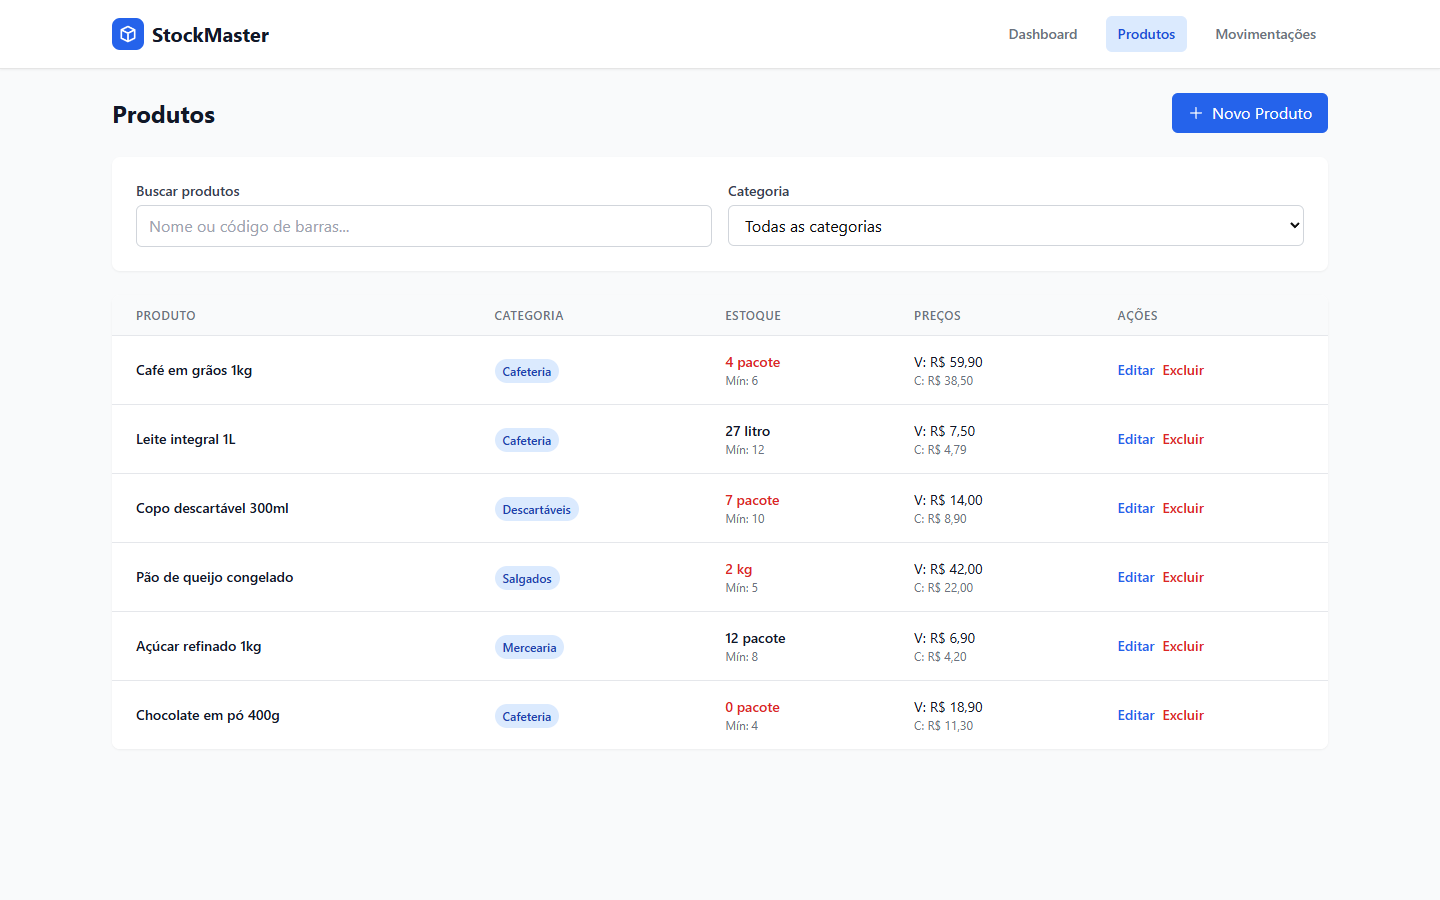
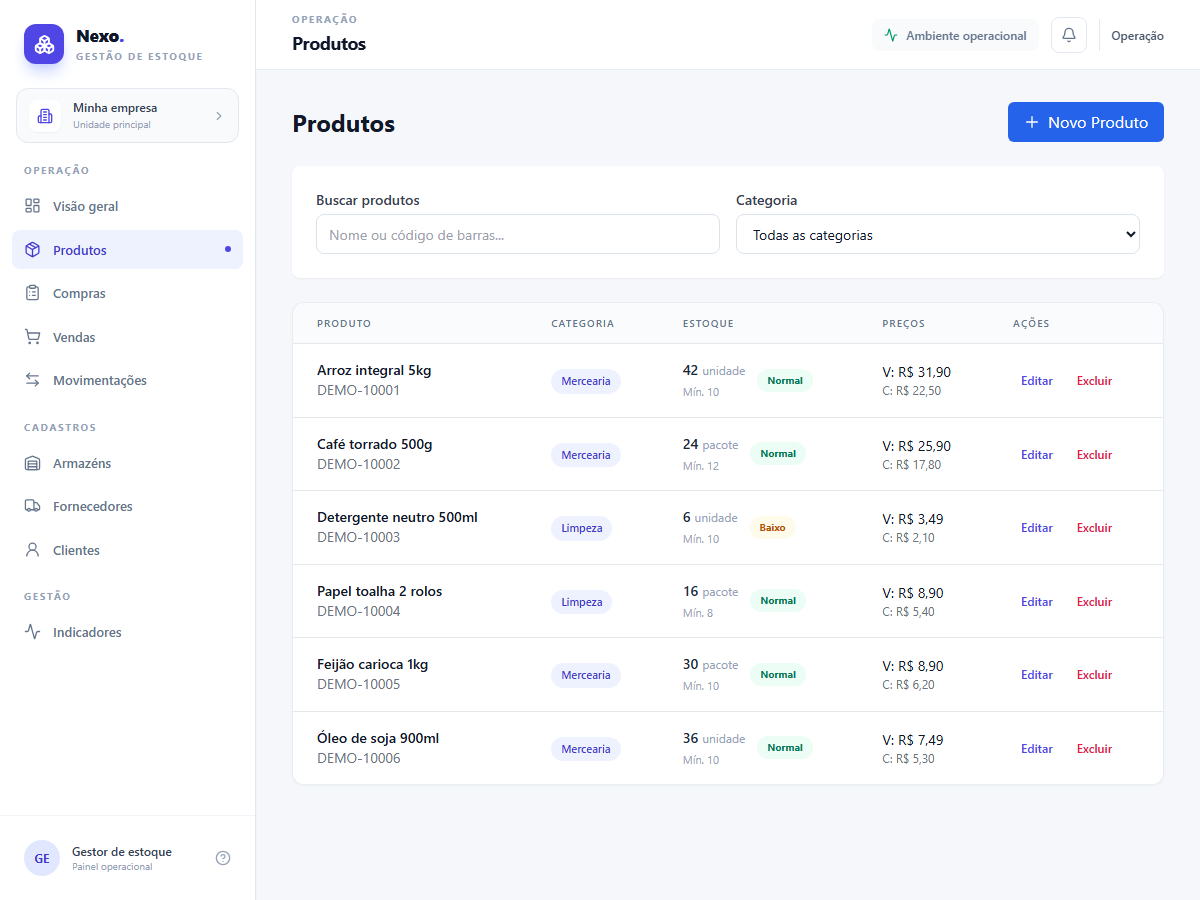
docs: refresh README for Nexo ERP

diff --git a/frontend/src/App.js b/frontend/src/App.js
@@ -9,6 +9,11 @@ if (DEMO) ativarDemo(axios);
 
 const BACKEND_URL = process.env.REACT_APP_BACKEND_URL;
 const API = `${BACKEND_URL}/api`;
+const PAGINAS = ['dashboard', 'produtos', 'compras', 'vendas', 'movimentacoes', 'armazens', 'fornecedores', 'clientes', 'erp'];
+const paginaSolicitada = () => {
+  const pagina = new URLSearchParams(window.location.search).get('page');
+  return PAGINAS.includes(pagina) ? pagina : 'dashboard';
+};
 
 const reais = (v) => (v || 0).toLocaleString('pt-BR', { style: 'currency', currency: 'BRL' });
 const rotulosMotivo = { compra: 'Compra', venda: 'Venda', perda: 'Perda', devolucao: 'Devolução', ajuste: 'Ajuste de estoque', inicial: 'Saldo inicial', transferencia: 'Transferência' };
@@ -16,7 +21,20 @@ const rotuloMotivo = (motivo) => rotulosMotivo[motivo] || motivo;
 
 // Componente principal
 function App() {
-  const [currentPage, setCurrentPage] = useState('dashboard');
+  const [currentPage, setCurrentPage] = useState(paginaSolicitada);
+  const navegarPara = (pagina) => {
+    if (!PAGINAS.includes(pagina)) return;
+    setCurrentPage(pagina);
+    const url = new URL(window.location.href);
+    if (pagina === 'dashboard') url.searchParams.delete('page');
+    else url.searchParams.set('page', pagina);
+    window.history.pushState({ pagina }, '', url);
+  };
+  useEffect(() => {
+    const sincronizarPagina = () => setCurrentPage(paginaSolicitada());
+    window.addEventListener('popstate', sincronizarPagina);
+    return () => window.removeEventListener('popstate', sincronizarPagina);
+  }, []);
   const menu = [
     { id: 'dashboard', label: 'Visão geral', icon: LayoutDashboard, group: 'Operação' },
     { id: 'produtos', label: 'Produtos', icon: Package, group: 'Operação' },
@@ -44,8 +62,8 @@ function App() {
               >
                 Recomeçar com os dados de exemplo
               </button>
-              <a className="underline underline-offset-2 hover:text-white" href="../../projetos.html#stockmaster" target="_top">
-                Voltar ao site da BLUE ROSE
+              <a className="underline underline-offset-2 hover:text-white" href="https://github.com/CauaCaetano/App-Controle-de-Estoque" target="_blank" rel="noreferrer">
+                Ver código-fonte no GitHub
               </a>
             </span>
           </div>
@@ -68,7 +86,7 @@ function App() {
           <nav className="flex-1 px-3 pb-4">
             {['Operação', 'Cadastros', 'Gestão'].map((group) => <div key={group} className="mb-5">
               <div className="px-3 pb-2 text-[10px] font-bold uppercase tracking-[.16em] text-slate-400">{group}</div>
-              <div className="space-y-1">{menu.filter((item) => item.group === group).map((item) => { const Icon = item.icon; return <button key={item.id} onClick={() => setCurrentPage(item.id)} aria-current={currentPage === item.id ? 'page' : undefined}
+              <div className="space-y-1">{menu.filter((item) => item.group === group).map((item) => { const Icon = item.icon; return <button key={item.id} onClick={() => navegarPara(item.id)} aria-current={currentPage === item.id ? 'page' : undefined}
                 className={`erp-nav-item flex w-full items-center gap-3 rounded-lg px-3 py-2.5 text-left text-[13px] font-medium transition ${currentPage === item.id ? 'bg-indigo-50 text-indigo-700' : 'text-slate-500 hover:bg-slate-50 hover:text-slate-900'}`}>
                 <Icon size={17} strokeWidth={1.8} /><span>{item.label}</span>{currentPage === item.id && <span className="ml-auto h-1.5 w-1.5 rounded-full bg-indigo-600" />}
               </button>; })}</div>
@@ -83,11 +101,11 @@ function App() {
           <header className="erp-topbar sticky top-0 z-20 border-b border-slate-200/80 bg-white/95 backdrop-blur">
             <div className="flex items-center justify-between gap-4 px-4 py-3 sm:px-7 lg:px-9">
               <div className="flex items-center gap-3"><div className="lg:hidden grid h-9 w-9 place-items-center rounded-lg bg-indigo-600 text-white"><Boxes size={19} /></div><div><div className="text-[10px] font-bold uppercase tracking-[.16em] text-slate-400">{page?.group || 'Operação'}</div><h1 className="mt-0.5 text-lg font-bold tracking-tight text-slate-900">{page?.label}</h1></div></div>
-              <div className="flex items-center gap-3"><div className="hidden items-center gap-2 rounded-lg bg-slate-50 px-3 py-2 text-xs font-medium text-slate-500 md:flex"><Activity size={14} className="text-emerald-600"/><span>Ambiente operacional</span></div><button type="button" aria-label="Abrir indicadores" title="Abrir indicadores" onClick={() => setCurrentPage('erp')} className="grid h-9 w-9 place-items-center rounded-lg border border-slate-200 text-slate-500 transition hover:bg-slate-50"><Bell size={16} /></button><div className="hidden h-8 w-px bg-slate-200 sm:block"/><span className="hidden text-xs font-semibold text-slate-600 sm:inline">Operação</span></div>
+              <div className="flex items-center gap-3"><div className="hidden items-center gap-2 rounded-lg bg-slate-50 px-3 py-2 text-xs font-medium text-slate-500 md:flex"><Activity size={14} className="text-emerald-600"/><span>Ambiente operacional</span></div><button type="button" aria-label="Abrir indicadores" title="Abrir indicadores" onClick={() => navegarPara('erp')} className="grid h-9 w-9 place-items-center rounded-lg border border-slate-200 text-slate-500 transition hover:bg-slate-50"><Bell size={16} /></button><div className="hidden h-8 w-px bg-slate-200 sm:block"/><span className="hidden text-xs font-semibold text-slate-600 sm:inline">Operação</span></div>
             </div>
           </header>
           <div className="erp-mobile-nav sticky top-[61px] z-10 flex gap-1 overflow-x-auto border-b border-slate-200 bg-white px-3 py-2 lg:hidden">
-            {menu.map((item) => { const Icon = item.icon; return <button key={item.id} onClick={() => setCurrentPage(item.id)} className={`flex shrink-0 items-center gap-2 whitespace-nowrap rounded-lg px-3 py-2 text-xs font-semibold ${currentPage === item.id ? 'bg-indigo-50 text-indigo-700' : 'text-slate-500 hover:bg-slate-50'}`}><Icon size={14}/>{item.label}</button>; })}
+            {menu.map((item) => { const Icon = item.icon; return <button key={item.id} onClick={() => navegarPara(item.id)} className={`flex shrink-0 items-center gap-2 whitespace-nowrap rounded-lg px-3 py-2 text-xs font-semibold ${currentPage === item.id ? 'bg-indigo-50 text-indigo-700' : 'text-slate-500 hover:bg-slate-50'}`}><Icon size={14}/>{item.label}</button>; })}
           </div>
       {/* Main Content */}
       <main className="erp-main w-full px-4 py-6 sm:px-6 lg:px-9 lg:py-8">

diff --git a/README.md b/README.md
@@ -2,9 +2,7 @@
 
 Um ERP operacional para uma pequena distribuidora. O sistema conecta cadastro de produtos, fornecedores, compras, recebimento, saldo por depósito, clientes, pedidos de venda e expedição em um mesmo fluxo. Cada movimento de estoque tem uma origem compreensível: uma compra recebida, uma venda expedida ou uma transferência entre depósitos.
 
-![Painel do StockMaster](docs/dashboard.png)
-
-**Teste agora, sem instalar nada:** https://cauacaetano.github.io/blue-rose-automacao-express/demos/stockmaster/
+![Painel operacional do Nexo Gestão com alertas, produtos por categoria e movimentações recentes](docs/dashboard.png)
 
 ## Fluxo de trabalho
 
@@ -19,7 +17,7 @@ O painel acompanha valor do estoque, alertas de reposição, depósitos e ativid
 
 O escopo é de operação de uma pequena distribuidora. Financeiro, emissão fiscal, autenticação e permissões por usuário são etapas futuras, pois precisam de regras próprias antes de se tornarem confiáveis. Mais contexto em [`docs/CONTEXTO_ERP.md`](docs/CONTEXTO_ERP.md).
 
-![Lista de produtos](docs/produtos.png)
+![Cadastro de produtos do Nexo Gestão com preços, saldo e níveis mínimos](docs/produtos.png)
 
 ## Tecnologias
 
@@ -54,7 +52,7 @@ REACT_APP_BACKEND_URL=http://127.0.0.1:8001 yarn start
 
 ## Modo demonstração (sem servidor)
 
-`REACT_APP_DEMO=1` troca as chamadas da API por uma versão que roda no navegador (`frontend/src/demoApi.js`). Ela inclui fornecedores e clientes, depósitos, transferências, pedidos de compra e venda, recebimento e expedição. Os dados ficam no `localStorage` de quem testa.
+`REACT_APP_DEMO=1` troca as chamadas da API por uma versão que roda no navegador (`frontend/src/demoApi.js`). Ela inclui fornecedores e clientes, depósitos, transferências, pedidos de compra e venda, recebimento e expedição. Os dados ficam no `localStorage` de quem testa. Para gerar o pacote estático para hospedagem:
 
 ```bash
 cd frontend
@@ -75,4 +73,6 @@ python backend_test.py         # roteiro de ponta a ponta contra o backend rodan
 - Painel passou a mostrar o nome do produto em cada movimentação; preços em formato brasileiro (R$ 59,90).
 - Banco em memória para rodar e testar sem instalar o MongoDB; dependências reduzidas ao que o código usa.
 
-Projeto da [BLUE ROSE](https://cauacaetano.github.io/blue-rose-automacao-express/).
+Os módulos podem ser abertos diretamente com links como `/?page=compras`, `/?page=vendas` e `/?page=produtos`. Ao navegar, a URL acompanha a tela atual.
+
+Código-fonte: [CauaCaetano/App-Controle-de-Estoque](https://github.com/CauaCaetano/App-Controle-de-Estoque).
